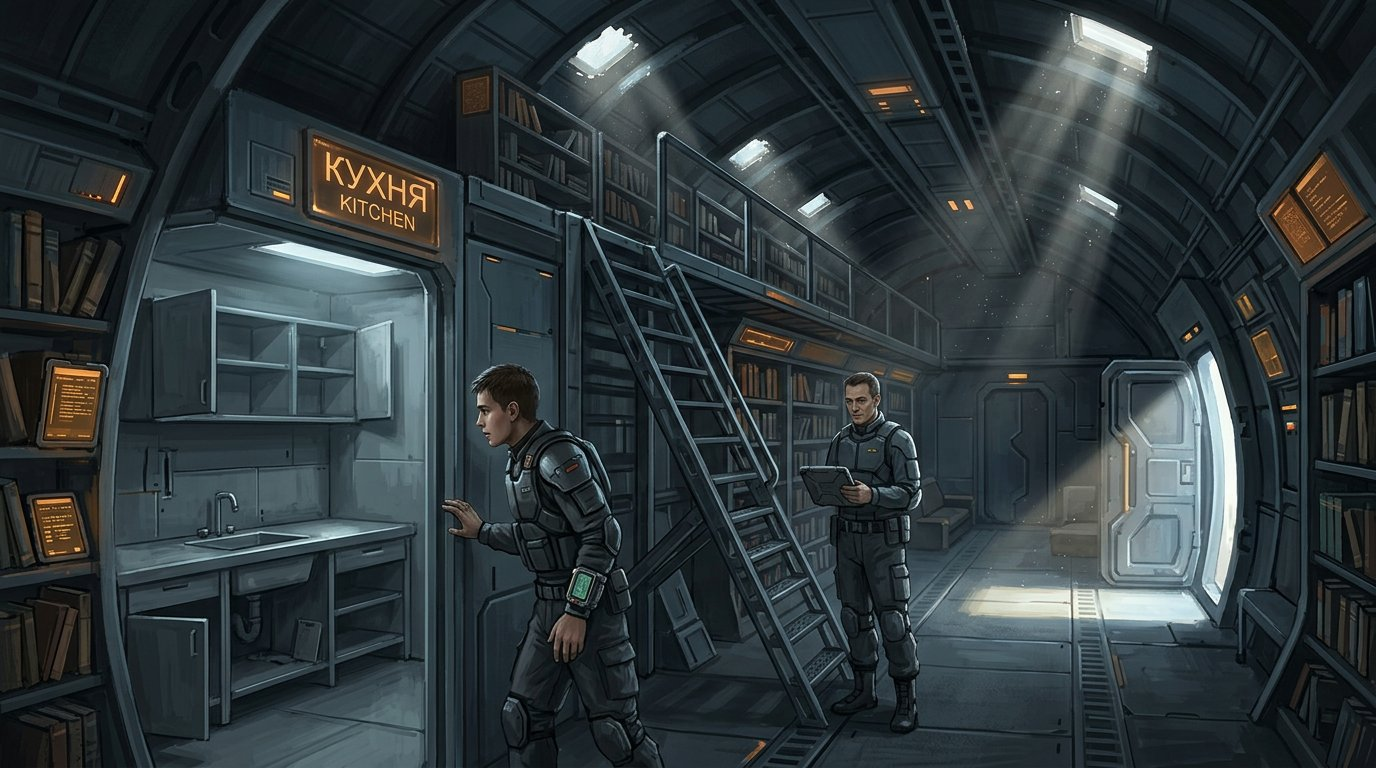
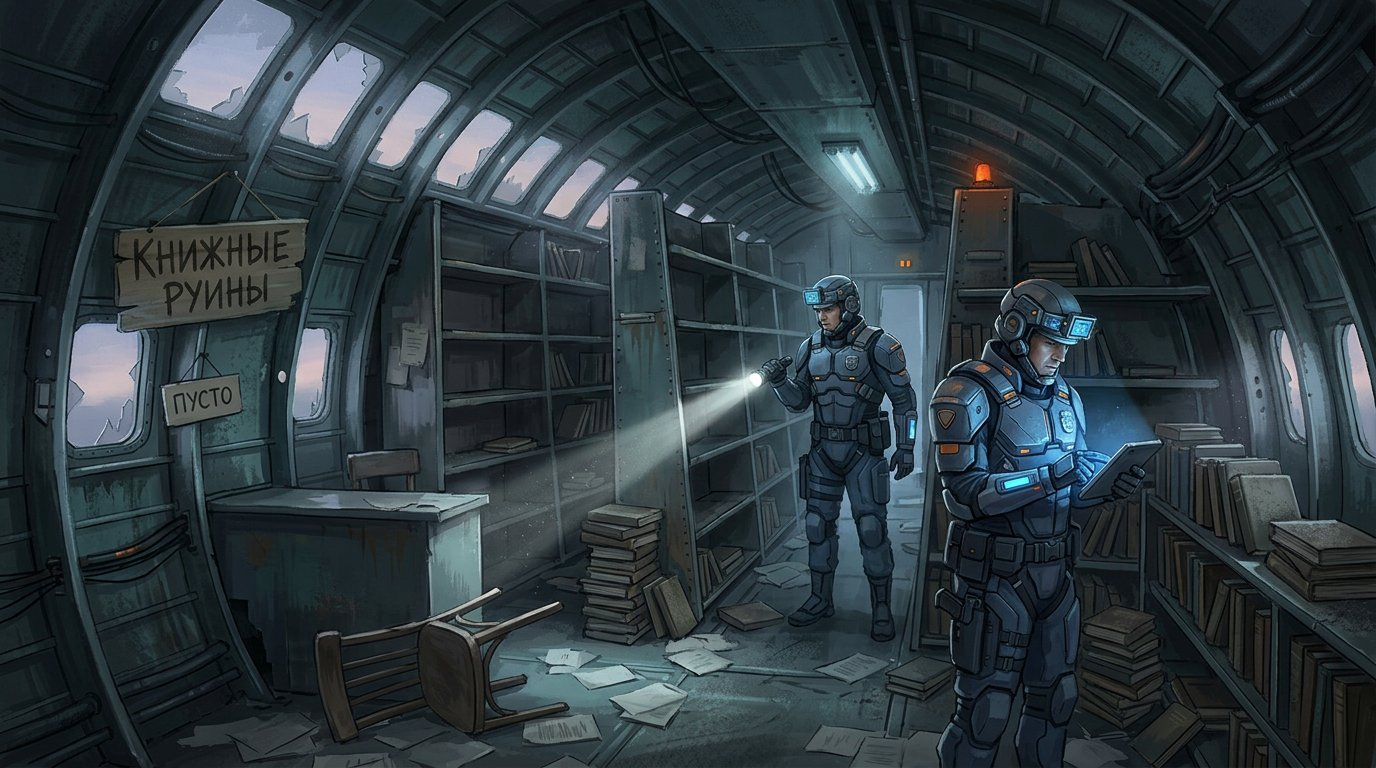
batch4 review (ch16-20): 24/24 ok, ch18-s01 regenerated; ch20-s05/s06 pending

diff --git a/books/fine-structure-scenes/review-batch4-ch16-20.md b/books/fine-structure-scenes/review-batch4-ch16-20.md
@@ -1,0 +1,117 @@
+# Ревью бэтча 4 — главы 16–20 (26 картинок)
+
+Ревью по одной картинке за раз. Описание — то, что РЕАЛЬНО изображено, сверено с логлайном сцены.
+
+**Итог: 24/24 готовых приняты.** ch18-s01 перегенерирована (первая версия показывала ангар-общагу вместо книжного магазина). ch20-s05 (FAIL генератора) и ch20-s06 — догоняются, ревью в бэтче 5.
+
+## Глава 16
+
+### ch16-s01 ✅
+![ch16-s01](img/ch16-s01.jpg)
+«Книжные руины» в остове упавшего авиалайнера: плющ, дерево, стеллажи; Акс и Юэн. (Юэн держит странный зубчатый предмет на шнурке — шум генератора, терпимо.)
+
+### ch16-s02 ✅
+![ch16-s02](img/ch16-s02.jpg)
+Акс ночью за столом разглядывает фото Советницы Аони Куллы из журнала, переводит статью, записи. Точно.
+
+### ch16-s03 ✅
+![ch16-s03](img/ch16-s03.jpg)
+Рассветная оранжерея на склоне Этны: Кулла даёт интервью, журналист записывает, диктофон на столе. Точно.
+
+### ch16-s04 ✅
+![ch16-s04](img/ch16-s04.jpg)
+Участок: Иллу показывает фоторобот луддитки, рядом журнальный портрет — узнавание Юэн. Точно.
+
+## Глава 17
+
+### ch17-s01 ✅
+![ch17-s01](img/ch17-s01.jpg)
+Ресторан, пара держится за руки, за окном ядерная вспышка. Мощно, точно.
+
+### ch17-s02 ✅
+![ch17-s02](img/ch17-s02.jpg)
+Юэн и Акс; на экране пласты обломков миров и разбитый самолёт — «миры на обломках цивилизаций». Точно.
+
+### ch17-s03 ✅
+![ch17-s03](img/ch17-s03.jpg)
+Разъярённый комендант, оборванные учёные, оператор снимает приговор на камеру, за дверью шахта. Точно.
+
+### ch17-s04 ✅
+![ch17-s04](img/ch17-s04.jpg)
+Светлый вестибюль «Электромагнитного проекта»: Кулла вручает измученному Квонду рукопись атомной теории. Точно.
+
+### ch17-s05 ✅
+![ch17-s05](img/ch17-s05.jpg)
+Акс и Иллу подъезжают к «Книжным руинам», Акс с журналом объясняет, ночной город. Точно.
+
+## Глава 18
+
+### ch18-s01 ✅ (перегенерирована)
+![ch18-s01](img/ch18-s01.jpg)
+Пустой «Книжные руины» в фюзеляже: двое офицеров с фонарями, вывески «КНИЖНЫЕ РУИНЫ» и «ПУСТО», опрокинутый стул, разбросанные бумаги. (Первая версия ошибочно показывала ангар-общежитие.)
+
+### ch18-s02 ✅
+![ch18-s02](img/ch18-s02.jpg)
+Заставленная книгами комната: Юэн за столом, Акс протягивает лист, тень Иллу в дверях — арест. Точно.
+
+### ch18-s03 ✅
+![ch18-s03](img/ch18-s03.jpg)
+Диптих: Юэн в наручниках на заднем сиденье на мосту / разбитое стекло, бегущая по мосту. Точно.
+
+### ch18-s04 ✅
+![ch18-s04](img/ch18-s04.jpg)
+Антарктика: гранитный купол, стальной люк, стук в переборку. (Лагерь по логлайну заброшен, на картинке с людьми — мелочь.)
+
+### ch18-s05 ✅
+![ch18-s05](img/ch18-s05.jpg)
+Внутри купола: исполинские машины, перфоленты, светящееся яйцо-маятник на кабелях, Митч и Юэн на мостике. Точно.
+
+## Глава 19
+
+### ch19-s01 ✅
+![ch19-s01](img/ch19-s01.jpg)
+Тёмный коридор обесточенной штаб-квартиры: Эшмор и прижавшаяся к стене испуганная Мари, опрокинутое кресло. Точно.
+
+### ch19-s02 ✅
+![ch19-s02](img/ch19-s02.jpg)
+Зал управления: Эшмор командует у пультов, команда в стрессе, тусклые экраны. Точно.
+
+### ch19-s03 ✅
+![ch19-s03](img/ch19-s03.jpg)
+Совещание вокруг единственной свечи, мёртвые экраны по стенам. Атмосферно, точно.
+
+### ch19-s04 ✅
+![ch19-s04](img/ch19-s04.jpg)
+Эшмор и Мари удерживают бьющегося в клаустрофобии мужчину, фонарь на полу. Точно.
+
+### ch19-s05 ✅
+![ch19-s05](img/ch19-s05.jpg)
+Команда у монитора с пересекающимися графиками, мрачные лица — «лазейка закрылась». Точно.
+
+### ch19-s06 ✅
+![ch19-s06](img/ch19-s06.jpg)
+Шестой день: двое измождённых на полу в темноте, фонарик, прощальные записи на КПК. Точно.
+
+## Глава 20
+
+### ch20-s01 ✅
+![ch20-s01](img/ch20-s01.jpg)
+Британская лаборатория: антенна на крыше, Мёрфи спускается по лестнице, Муока за пультом. Точно.
+
+### ch20-s02 ✅
+![ch20-s02](img/ch20-s02.jpg)
+Чэн за периметром базы с парящими Джейсоном и Арикой, военная колонна вдали. Точно.
+
+### ch20-s03 ✅
+![ch20-s03](img/ch20-s03.jpg)
+Капсула «ODYSSEY — ATLANTIC TRAVERSE»: Джейсон тащит её на тросе через Атлантику, Чэн в кабине. Буквально по тексту.
+
+### ch20-s04 ✅
+![ch20-s04](img/ch20-s04.jpg)
+Роща за лабораторией: телескоп «ARRAY 4: RELAY STATION 7», Чэн с ноутбуком, Джейсон взлетает, Муока и Мёрфи у тарелки. Точно.
+
+### ch20-s05 ⏳
+FAIL генератора — догоняется, ревью в бэтче 5.
+
+### ch20-s06 ⏳
+В очереди генератора — ревью в бэтче 5.
